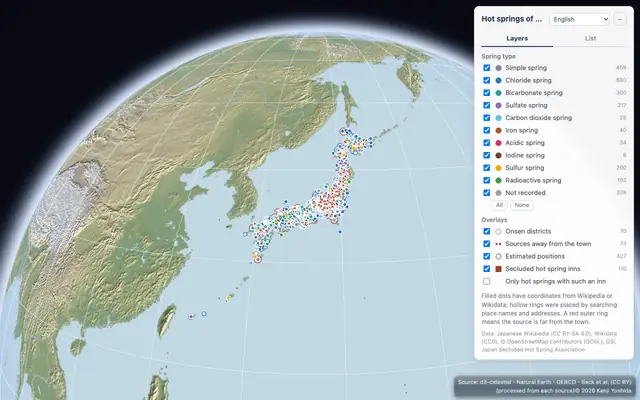
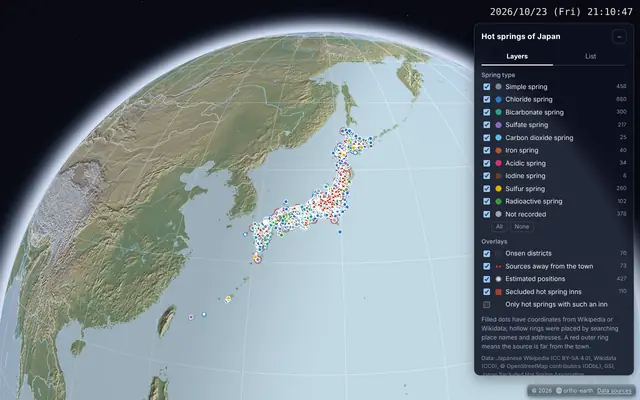
案内パネルを黒地に一本化：physical・terrain・onsen の白地（theme "light"）をやめ、カード写真を撮り直す
- common/panel：配色は黒地だけ（theme 引数と .oe-light を廃止）。--qm-* の夜値を枠で決め直し、
  入力・hover・選択・囲み・縁取りの小物（--oe-field/--oe-hover/--oe-on/--oe-inset/--oe-halo）も配る。
  枠の外の部品も class "oe-dark" で同じ黒地を受ける。
- physical・terrain：パネルの中身と断面図／グラフ（.ph-chart・.tr-chart）を変数で黒地に。
- onsen：パネルの中身を変数で黒地に。
- www のカード写真（physical・terrain・onsen）を新しい黒地パネルで撮り直し。

Claude-Session: https://claude.ai/code/session_016S2ZgwmMM8RZPS6jVxQ6tG

diff --git a/apps/ortho-globe/physical.ts b/apps/ortho-globe/physical.ts
@@ -422,7 +422,7 @@ export async function mountPhysical(map: GlobeMap, { geopbf, data }: { geopbf: G
 
 	// ── 案内板（右上）：詳細カード＋タブ（表示・一覧・比較）──
 	// 枠（見出し・折り畳み・PC は右上／スマホは下端のシート）＝共通の器 common/panel（紙の地図＝light）。言語の切替は地図のボタン（gadget.lang）
-	const P = createPanel({ host: mapEl, title: t("Physical world"), cls: "ph-panel", theme: "light",
+	const P = createPanel({ host: mapEl, title: t("Physical world"), cls: "ph-panel",
 		labels: { fold: t("Collapse panel"), unfold: t("Expand panel") } });
 	const panel = P.el;
 	P.body.insertAdjacentHTML("beforebegin", `<style>${CSS}</style>`);
@@ -615,7 +615,7 @@ export async function mountPhysical(map: GlobeMap, { geopbf, data }: { geopbf: G
 // ── 比較図：高さ比べ（山＝三角の影絵）と長さ・広さ比べ（横棒・2 量は並べた 2 枚）──
 function makeChart({ mapEl, items, byQ, nameOf, getSel, onPick }: { mapEl: HTMLElement; items: Terrain[]; byQ: Map<string, Terrain>; nameOf: (d: Terrain) => string; getSel: () => string | null; onPick: (q: string) => void }) {
 	const el = document.createElement("div");
-	el.className = "ph-chart"; el.hidden = true;
+	el.className = "ph-chart oe-dark"; el.hidden = true;   // oe-dark＝案内パネルと同じ黒地の変数・地色（common/panel）
 	el.innerHTML = `<div class="ch"><b class="tt"></b><button class="x" type="button" aria-label="${esc(t("Close"))}">×</button></div><div class="cv"></div><div class="ctip" hidden></div>`;
 	mapEl.appendChild(el);
 	for (const ev of ["pointerdown", "wheel", "dblclick", "contextmenu"]) el.addEventListener(ev, e => e.stopPropagation());
@@ -692,8 +692,8 @@ const CSS = `
 .ph-panel .leg[hidden]{display:none}   /* display:flex が hidden 属性に勝って、消した重ねの凡例が出ていた */
 .ph-panel .kleg{gap:4px;align-items:flex-start}
 .ph-panel .kgroups{display:flex;flex-direction:column;gap:3px;align-self:stretch}
-.ph-panel .kmore{align-self:flex-start;margin:2px 0 4px;font:inherit;font-size:11.5px;padding:3px 10px;border-radius:999px;border:1px solid var(--qm-border-soft);background:#fff;color:var(--qm-text);cursor:pointer}
-.ph-panel .kmore.on{background:var(--qm-ink);color:#fff;border-color:var(--qm-ink)}
+.ph-panel .kmore{align-self:flex-start;margin:2px 0 4px;font:inherit;font-size:11.5px;padding:3px 10px;border-radius:999px;border:1px solid var(--qm-border-soft);background:var(--oe-field);color:var(--qm-text);cursor:pointer}
+.ph-panel .kmore.on{background:var(--qm-ink);color:#0b1021;border-color:var(--qm-ink)}
 .ph-panel .kg{display:flex;flex-direction:column;align-items:flex-start;gap:2px}
 .ph-panel .kcs{display:flex;flex-wrap:wrap;gap:2px 8px;margin-left:20px}
 .ph-panel .kc{display:inline-flex;align-items:center;font-size:11px;font-variant-numeric:tabular-nums}
@@ -709,18 +709,18 @@ const CSS = `
 .ph-panel .note{color:var(--qm-text-dim);font-size:12px;margin:8px 0 0}
 .ph-panel .src{color:var(--qm-text-faint);font-size:11px;margin:6px 0 0}
 .ph-panel .ctl{display:flex;gap:6px}
-.ph-panel select,.ph-panel .find{flex:1;min-width:0;font:inherit;font-size:12.5px;border-radius:var(--qm-r-m);border:1px solid var(--qm-border-soft);background:#fff;color:var(--qm-text);padding:5px 6px}
+.ph-panel select,.ph-panel .find{flex:1;min-width:0;font:inherit;font-size:12.5px;border-radius:var(--qm-r-m);border:1px solid var(--qm-border-soft);background:var(--oe-field);color:var(--qm-text);padding:5px 6px}
 .ph-panel .find{display:block;width:100%;box-sizing:border-box;margin-top:6px}
 .ph-panel .list{list-style:none;margin:6px 0 0;padding:0;max-height:46vh;overflow:auto}
 .ph-panel .list li{position:relative;display:flex;gap:6px;align-items:baseline;padding:4px 4px 6px;border-radius:6px;cursor:pointer}
-.ph-panel .list li:hover{background:rgba(43,59,87,.06)}
-.ph-panel .list li.on{background:rgba(215,38,61,.08)}
+.ph-panel .list li:hover{background:var(--oe-hover)}
+.ph-panel .list li.on{background:var(--oe-on)}
 .ph-panel .list .i{flex:none;width:22px;text-align:right;color:var(--qm-text-faint);font-variant-numeric:tabular-nums}
 .ph-panel .list .n{flex:1;min-width:0;overflow:hidden;text-overflow:ellipsis;white-space:nowrap}
 .ph-panel .list .n small{margin-left:6px;color:var(--qm-text-faint)}
 .ph-panel .list .v{flex:none;color:var(--qm-num);font-variant-numeric:tabular-nums;font-size:12px}
 .ph-panel .list .bar{position:absolute;left:32px;bottom:2px;height:2px;border-radius:2px;background:var(--qm-border-strong);opacity:.5;max-width:calc(100% - 36px)}
-.ph-panel .detail{margin:10px 0 2px;padding:10px;border-radius:var(--qm-r-m);background:rgba(43,59,87,.04);border:1px solid var(--qm-border-soft)}
+.ph-panel .detail{margin:10px 0 2px;padding:10px;border-radius:var(--qm-r-m);background:var(--oe-inset);border:1px solid var(--qm-border-soft)}
 .ph-panel .dh{display:flex;gap:8px;align-items:flex-start;margin-bottom:6px}
 .ph-panel .dh .sw{margin-top:4px}
 .ph-panel .dh > div{flex:1;min-width:0}
@@ -734,7 +734,7 @@ const CSS = `
 .ph-panel .dl a{color:var(--qm-ink)}
 .oe-wiki.ph-wiki{left:12px;top:12px;bottom:calc(40px + var(--qm-safe-b));z-index:31;width:min(560px,calc(100% - 356px));--oe-wiki-radius:var(--qm-r-l);--oe-wiki-border:var(--qm-border-soft);--oe-wiki-shadow:var(--qm-shadow-pop);--oe-wiki-font:var(--qm-font)}
 .ph-chart{position:absolute;left:12px;right:344px;bottom:calc(40px + var(--qm-safe-b));z-index:29;height:300px;box-sizing:border-box;padding:8px 12px 10px;display:flex;flex-direction:column;
-	border-radius:var(--qm-r-l);background:var(--qm-panel-solid);border:1px solid var(--qm-border-soft);box-shadow:var(--qm-shadow-pop);color:var(--qm-text);font:12px/1.4 var(--qm-font)}
+	border-radius:var(--qm-r-l);background:var(--oe-panel-bg);backdrop-filter:blur(8px);-webkit-backdrop-filter:blur(8px);border:1px solid var(--qm-border-soft);box-shadow:var(--qm-shadow-pop);color:var(--qm-text);font:12px/1.4 var(--qm-font)}
 .ph-chart[hidden]{display:none}
 .ph-chart .ch{display:flex;justify-content:space-between;align-items:center;margin-bottom:4px}
 .ph-chart .ch b{color:var(--qm-ink);font-size:13px}
@@ -742,24 +742,24 @@ const CSS = `
 .ph-chart .cv{flex:1;min-height:0;overflow:hidden}
 .ph-chart .cv.scroll{overflow:auto}
 .ph-chart svg{display:block;font:11px var(--qm-font)}
-.ph-chart .gl{stroke:rgba(90,100,120,.16);stroke-width:1}
+.ph-chart .gl{stroke:var(--oe-hover);stroke-width:1}
 .ph-chart .base{stroke:var(--qm-text-dim);stroke-width:1}
-.ph-chart .ax{fill:var(--qm-text-dim);font-size:10px;paint-order:stroke;stroke:#fff;stroke-width:3px}
-.ph-chart .mtn{fill:#8f4a14;fill-opacity:.78;stroke:#fff;stroke-width:1}
-.ph-chart .vol{fill:#c2410c;fill-opacity:.78;stroke:#fff;stroke-width:1}
+.ph-chart .ax{fill:var(--qm-text-dim);font-size:10px;paint-order:stroke;stroke:var(--oe-halo);stroke-width:3px}
+.ph-chart .mtn{fill:#b8641f;fill-opacity:.85;stroke:var(--oe-halo);stroke-width:1}
+.ph-chart .vol{fill:#e2531b;fill-opacity:.85;stroke:var(--oe-halo);stroke-width:1}
 .ph-chart .val{fill:var(--qm-num);font-size:9.5px;text-anchor:middle;font-variant-numeric:tabular-nums}
 .ph-chart .lb{fill:var(--qm-text);font-size:10px;text-anchor:middle}
 .ph-chart .mh{fill:var(--qm-text-dim);font-weight:600}
 .ph-chart .nm{fill:var(--qm-text);text-anchor:end}
 .ph-chart .na{fill:var(--qm-text-faint)}
-.ph-chart .bar{fill:#2f78c4;fill-opacity:.85}
-.ph-chart .bar.b1{fill:#5a6472;fill-opacity:.7}
+.ph-chart .bar{fill:#4a90dc;fill-opacity:.85}
+.ph-chart .bar.b1{fill:#8793aa;fill-opacity:.7}
 .ph-chart .val2{fill:var(--qm-num);font-size:10.5px;font-variant-numeric:tabular-nums}
 .ph-chart .hit{fill:transparent;cursor:pointer}
 .ph-chart .mk:hover .mtn,.ph-chart .mk:hover .vol,.ph-chart .mk:hover .bar{fill-opacity:1}
-.ph-chart .mk.on .mtn,.ph-chart .mk.on .vol,.ph-chart .mk.on .bar{stroke:#d7263d;stroke-width:2;fill-opacity:1}
-.ph-chart .mk.on .nm,.ph-chart .mk.on .lb{fill:#d7263d;font-weight:700}
-.ph-chart .ctip{position:absolute;pointer-events:none;min-width:120px;padding:6px 8px;border-radius:6px;background:rgba(255,255,255,.97);border:1px solid var(--qm-border-soft);box-shadow:var(--qm-shadow-card);font-size:12px}
+.ph-chart .mk.on .mtn,.ph-chart .mk.on .vol,.ph-chart .mk.on .bar{stroke:#ff6b7d;stroke-width:2;fill-opacity:1}
+.ph-chart .mk.on .nm,.ph-chart .mk.on .lb{fill:#ff6b7d;font-weight:700}
+.ph-chart .ctip{position:absolute;pointer-events:none;min-width:120px;padding:6px 8px;border-radius:6px;background:var(--qm-panel-solid);border:1px solid var(--qm-border-soft);box-shadow:var(--qm-shadow-card);font-size:12px}
 .ph-chart .ctip[hidden]{display:none}
 @media (max-width:640px){
 	.oe-wiki.ph-wiki{left:8px;right:8px;top:8px;width:auto}

diff --git a/apps/ortho-japan/terrain.ts b/apps/ortho-japan/terrain.ts
@@ -331,7 +331,7 @@ export async function mountTerrain(map: GlobeMap, { geopbf, base = "./" }: { geo
 
 	// ── 案内板（右上）：詳細カード＋タブ（表示・一覧・比較）──
 	// 枠（見出し・折り畳み・PC は右上／スマホは下端のシート）＝共通の器 common/panel（紙の地図＝light）。言語の切替は地図のボタン（gadget.lang）
-	const P = createPanel({ host: mapEl, title: t("Landforms of Japan"), cls: "tr-panel", theme: "light",
+	const P = createPanel({ host: mapEl, title: t("Landforms of Japan"), cls: "tr-panel",
 		labels: { fold: t("Collapse panel"), unfold: t("Expand panel") } });
 	const panel = P.el;
 	P.body.insertAdjacentHTML("beforebegin", `<style>${CSS}</style>`);
@@ -474,7 +474,7 @@ export async function mountTerrain(map: GlobeMap, { geopbf, base = "./" }: { geo
 // ── 比較図：高さ比べ（山＝三角の影絵）と長さ・広さ比べ（横棒・2 量は並べた 2 枚）＝physical.js と同じ ──
 function makeChart({ mapEl, items, byQ, nameOf, getSel, onPick }: { mapEl: HTMLElement; items: TerrainItem[]; byQ: Map<string, TerrainItem>; nameOf: (d: TerrainItem) => string; getSel: () => string | null; onPick: (q: string) => void }) {
 	const el = document.createElement("div");
-	el.className = "tr-chart"; el.hidden = true;
+	el.className = "tr-chart oe-dark"; el.hidden = true;   // oe-dark＝案内パネルと同じ黒地の変数・地色（common/panel）
 	el.innerHTML = `<div class="ch"><b class="tt"></b><button class="x" type="button" aria-label="${esc(t("Close"))}">×</button></div><div class="cv"></div><div class="ctip" hidden></div>`;
 	mapEl.appendChild(el);
 	for (const ev of ["pointerdown", "wheel", "dblclick", "contextmenu"]) el.addEventListener(ev, e => e.stopPropagation());
@@ -552,18 +552,18 @@ const CSS = `
 .tr-panel .note{color:var(--qm-text-dim);font-size:12px;margin:8px 0 0}
 .tr-panel .src{color:var(--qm-text-faint);font-size:11px;margin:6px 0 0}
 .tr-panel .ctl{display:flex;gap:6px}
-.tr-panel select,.tr-panel .find{flex:1;min-width:0;font:inherit;font-size:12.5px;border-radius:var(--qm-r-m);border:1px solid var(--qm-border-soft);background:#fff;color:var(--qm-text);padding:5px 6px}
+.tr-panel select,.tr-panel .find{flex:1;min-width:0;font:inherit;font-size:12.5px;border-radius:var(--qm-r-m);border:1px solid var(--qm-border-soft);background:var(--oe-field);color:var(--qm-text);padding:5px 6px}
 .tr-panel .find{display:block;width:100%;box-sizing:border-box;margin-top:6px}
 .tr-panel .list{list-style:none;margin:6px 0 0;padding:0;max-height:46vh;overflow:auto}
 .tr-panel .list li{position:relative;display:flex;gap:6px;align-items:baseline;padding:4px 4px 6px;border-radius:6px;cursor:pointer}
-.tr-panel .list li:hover{background:rgba(43,59,87,.06)}
-.tr-panel .list li.on{background:rgba(215,38,61,.08)}
+.tr-panel .list li:hover{background:var(--oe-hover)}
+.tr-panel .list li.on{background:var(--oe-on)}
 .tr-panel .list .i{flex:none;width:22px;text-align:right;color:var(--qm-text-faint);font-variant-numeric:tabular-nums}
 .tr-panel .list .n{flex:1;min-width:0;overflow:hidden;text-overflow:ellipsis;white-space:nowrap}
 .tr-panel .list .n small{margin-left:6px;color:var(--qm-text-faint)}
 .tr-panel .list .v{flex:none;color:var(--qm-num);font-variant-numeric:tabular-nums;font-size:12px}
 .tr-panel .list .bar{position:absolute;left:32px;bottom:2px;height:2px;border-radius:2px;background:var(--qm-border-strong);opacity:.5;max-width:calc(100% - 36px)}
-.tr-panel .detail{margin:10px 0 2px;padding:10px;border-radius:var(--qm-r-m);background:rgba(43,59,87,.04);border:1px solid var(--qm-border-soft)}
+.tr-panel .detail{margin:10px 0 2px;padding:10px;border-radius:var(--qm-r-m);background:var(--oe-inset);border:1px solid var(--qm-border-soft)}
 .tr-panel .dh{display:flex;gap:8px;align-items:flex-start;margin-bottom:6px}
 .tr-panel .dh .sw{margin-top:4px}
 .tr-panel .dh > div{flex:1;min-width:0}
@@ -583,7 +583,7 @@ const CSS = `
 .tr-wiki .nt,.tr-wiki .x{flex:none;width:26px;height:26px;display:grid;place-items:center;border-radius:7px;border:1px solid var(--qm-border-soft);background:transparent;color:var(--qm-text-dim);font-size:14px;line-height:1;cursor:pointer;text-decoration:none}
 .tr-wiki iframe{flex:1;min-height:0;width:100%;border:0;background:#fff}
 .tr-chart{position:absolute;left:12px;right:344px;bottom:calc(40px + var(--qm-safe-b));z-index:29;height:300px;box-sizing:border-box;padding:8px 12px 10px;display:flex;flex-direction:column;
-	border-radius:var(--qm-r-l);background:var(--qm-panel-solid);border:1px solid var(--qm-border-soft);box-shadow:var(--qm-shadow-pop);color:var(--qm-text);font:12px/1.4 var(--qm-font)}
+	border-radius:var(--qm-r-l);background:var(--oe-panel-bg);backdrop-filter:blur(8px);-webkit-backdrop-filter:blur(8px);border:1px solid var(--qm-border-soft);box-shadow:var(--qm-shadow-pop);color:var(--qm-text);font:12px/1.4 var(--qm-font)}
 .tr-chart[hidden]{display:none}
 .tr-chart .ch{display:flex;justify-content:space-between;align-items:center;margin-bottom:4px}
 .tr-chart .ch b{color:var(--qm-ink);font-size:13px}
@@ -591,24 +591,24 @@ const CSS = `
 .tr-chart .cv{flex:1;min-height:0;overflow:hidden}
 .tr-chart .cv.scroll{overflow:auto}
 .tr-chart svg{display:block;font:11px var(--qm-font)}
-.tr-chart .gl{stroke:rgba(90,100,120,.16);stroke-width:1}
+.tr-chart .gl{stroke:var(--oe-hover);stroke-width:1}
 .tr-chart .base{stroke:var(--qm-text-dim);stroke-width:1}
-.tr-chart .ax{fill:var(--qm-text-dim);font-size:10px;paint-order:stroke;stroke:#fff;stroke-width:3px}
-.tr-chart .mtn{fill:#8f4a14;fill-opacity:.78;stroke:#fff;stroke-width:1}
-.tr-chart .vol{fill:#c2410c;fill-opacity:.78;stroke:#fff;stroke-width:1}
+.tr-chart .ax{fill:var(--qm-text-dim);font-size:10px;paint-order:stroke;stroke:var(--oe-halo);stroke-width:3px}
+.tr-chart .mtn{fill:#b8641f;fill-opacity:.85;stroke:var(--oe-halo);stroke-width:1}
+.tr-chart .vol{fill:#e2531b;fill-opacity:.85;stroke:var(--oe-halo);stroke-width:1}
 .tr-chart .val{fill:var(--qm-num);font-size:9.5px;text-anchor:middle;font-variant-numeric:tabular-nums}
 .tr-chart .lb{fill:var(--qm-text);font-size:10px;text-anchor:middle}
 .tr-chart .mh{fill:var(--qm-text-dim);font-weight:600}
 .tr-chart .nm{fill:var(--qm-text);text-anchor:end}
 .tr-chart .na{fill:var(--qm-text-faint)}
-.tr-chart .bar{fill:#2f78c4;fill-opacity:.85}
-.tr-chart .bar.b1{fill:#5a6472;fill-opacity:.7}
+.tr-chart .bar{fill:#4a90dc;fill-opacity:.85}
+.tr-chart .bar.b1{fill:#8793aa;fill-opacity:.7}
 .tr-chart .val2{fill:var(--qm-num);font-size:10.5px;font-variant-numeric:tabular-nums}
 .tr-chart .hit{fill:transparent;cursor:pointer}
 .tr-chart .mk:hover .mtn,.tr-chart .mk:hover .vol,.tr-chart .mk:hover .bar{fill-opacity:1}
-.tr-chart .mk.on .mtn,.tr-chart .mk.on .vol,.tr-chart .mk.on .bar{stroke:#d7263d;stroke-width:2;fill-opacity:1}
-.tr-chart .mk.on .nm,.tr-chart .mk.on .lb{fill:#d7263d;font-weight:700}
-.tr-chart .ctip{position:absolute;pointer-events:none;min-width:120px;padding:6px 8px;border-radius:6px;background:rgba(255,255,255,.97);border:1px solid var(--qm-border-soft);box-shadow:var(--qm-shadow-card);font-size:12px}
+.tr-chart .mk.on .mtn,.tr-chart .mk.on .vol,.tr-chart .mk.on .bar{stroke:#ff6b7d;stroke-width:2;fill-opacity:1}
+.tr-chart .mk.on .nm,.tr-chart .mk.on .lb{fill:#ff6b7d;font-weight:700}
+.tr-chart .ctip{position:absolute;pointer-events:none;min-width:120px;padding:6px 8px;border-radius:6px;background:var(--qm-panel-solid);border:1px solid var(--qm-border-soft);box-shadow:var(--qm-shadow-card);font-size:12px}
 .tr-chart .ctip[hidden]{display:none}
 @media (max-width:640px){
 	.tr-wiki{left:8px;right:8px;top:8px;width:auto}

diff --git a/packages/common/src/panel.ts b/packages/common/src/panel.ts
@@ -9,8 +9,10 @@
 //   下端はどちらも出典（#attr）の上で止める（PC＝丈の頭打ち・スマホ＝シートの下端）。
 //   スマホ（≤640px）＝下端いっぱいのシート。出典（#attr）の高さを測って、その上に浮かす（出典が 2 行でも 4 行でも重ならない）。
 //                     最初は畳む（見出しだけ＝地図を先に見せる）。開いている間は操作方法カード（#hint）を隠す（重なるため）。
-//   配色＝theme "dark"（夜の地球儀の頁）／"light"（紙の地図の頁）。どちらも --qm-* の変数を枠の中で決める＝中身の CSS は
-//         var(--qm-text) 等で書けば両方の配色で読める。
+//   配色＝黒地・白文字の一つだけ（紙の地図の頁も同じ。旧 theme "light"＝physical・terrain・onsen の白地は 2026-10-23 本人「黒地のパネルに」で廃止）。
+//         --qm-* の変数を枠の中で夜値に決め直す＝中身の CSS は var(--qm-text) 等で書けば黒地で読める（紙の頁の #map が配る昼値に勝つ）。
+//         枠の外に浮かぶ頁の部品（断面図・グラフ等）も class "oe-dark" を付ければ同じ変数と地色（--oe-panel-bg）を受ける。
+//         地色の上の小物：--oe-field（入力・選択の地）・--oe-hover（行の hover）・--oe-on（選んだ行＝赤み）・--oe-inset（詳細の囲み）・--oe-halo（図の文字の縁取り）。
 // 文言は呼び手が渡す（common は i18n を持たない＝各頁の t() で訳した物）。
 // 二つ以上のアプリが使う＝共有エンジンの入口 common/panel（apps/engine/src/entries.mjs）＝各アプリの束に焼かない。
 
@@ -27,8 +29,6 @@ export interface PanelOpts {
 	sub?: string;
 	/** 頁の class（中身の CSS の錨。例 "sats-panel"） */
 	cls?: string;
-	/** 配色。既定 "dark" */
-	theme?: "dark" | "light";
 	/** PC での幅（px）。既定 320 */
 	width?: number;
 	/** スマホで最初に畳むか。既定 true */
@@ -57,9 +57,11 @@ const CSS = `
  max-height:calc(100% - 28px - var(--oe-attr-h,40px));overflow:auto;box-sizing:border-box;padding:12px 14px;border-radius:12px;
  backdrop-filter:blur(8px);-webkit-backdrop-filter:blur(8px);font:13px/1.5 var(--qm-font,system-ui,sans-serif);scrollbar-width:thin;
  background:var(--oe-panel-bg);color:var(--qm-text);border:1px solid var(--qm-border-soft);box-shadow:var(--oe-panel-shadow)}
-.oe-panel.oe-dark{--qm-ink:#fff;--qm-text:#e7ecf5;--qm-text-dim:#9aa6bd;--qm-text-faint:#8793aa;--qm-border-soft:rgba(255,255,255,.16);
- --oe-panel-bg:rgba(12,17,32,.88);--oe-panel-shadow:0 8px 28px rgba(0,0,0,.35);color-scheme:dark}
-.oe-panel.oe-light{--oe-panel-bg:var(--qm-panel-solid,rgba(255,255,255,.96));--oe-panel-shadow:var(--qm-shadow-pop,0 4px 14px rgba(20,30,50,.12));color-scheme:light}
+.oe-panel,.oe-dark{--qm-ink:#fff;--qm-text:#e7ecf5;--qm-num:#cfd8e8;--qm-label:#9aa6bd;--qm-text-dim:#9aa6bd;--qm-text-faint:#8793aa;
+ --qm-border:rgba(255,255,255,.22);--qm-border-soft:rgba(255,255,255,.16);--qm-border-strong:rgba(255,255,255,.42);--qm-panel-solid:rgba(12,17,32,.96);
+ --qm-shadow-card:0 3px 10px rgba(0,0,0,.3);--qm-shadow-pop:0 8px 28px rgba(0,0,0,.35);
+ --oe-panel-bg:rgba(12,17,32,.88);--oe-panel-shadow:0 8px 28px rgba(0,0,0,.35);
+ --oe-field:rgba(255,255,255,.07);--oe-hover:rgba(255,255,255,.08);--oe-on:rgba(255,92,112,.2);--oe-inset:rgba(255,255,255,.05);--oe-halo:#0c1120;color-scheme:dark}
 @media (min-width:${PANEL_MOBILE + 1}px){.oe-panel-host:has(#sky-clock)>.oe-panel{top:calc(46px + env(safe-area-inset-top,0px));max-height:calc(100% - 62px - var(--oe-attr-h,40px))}}   /* 夜空の時計（右上・#sky-clock）の下へ＝重ねない（PC だけ・スマホは下端） */
 .oe-panel .oe-panel-head{display:flex;align-items:center;justify-content:space-between;gap:8px}
 .oe-panel .oe-panel-head h1{flex:1;min-width:0;font-size:15px;line-height:1.35;margin:0;font-weight:700;letter-spacing:.02em;color:var(--qm-ink)}
@@ -102,11 +104,11 @@ function watchAttr(host: HTMLElement, signal: AbortSignal): void {
 }
 
 /** 案内パネルを作って host に付ける。中身は戻りの body に入れる */
-export function createPanel({ host, title, sub = "", cls = "", theme = "dark", width = 320, foldMobile = true, labels = {}, onFold }: PanelOpts): Panel {
+export function createPanel({ host, title, sub = "", cls = "", width = 320, foldMobile = true, labels = {}, onFold }: PanelOpts): Panel {
 	injectCss();
 	const ac = new AbortController();
 	const el = document.createElement("section");
-	el.className = `oe-panel oe-${theme}${cls ? " " + cls : ""}`;
+	el.className = `oe-panel${cls ? " " + cls : ""}`;
 	if (width !== 320) el.style.setProperty("--oe-panel-w", `${width}px`);
 	el.innerHTML = `<div class="oe-panel-head"><h1></h1><button type="button" class="oe-panel-fold"></button></div><div class="oe-panel-sub"></div><div class="oe-panel-body"></div>`;
 	const head = el.querySelector<HTMLElement>(".oe-panel-head")!;

diff --git a/apps/ortho-japan/onsen.ts b/apps/ortho-japan/onsen.ts
@@ -170,7 +170,7 @@ export async function mountOnsen(map: GlobeMap, { base = "./" } = {}) {
 	// ── 案内板（右上）：詳細カード＋タブ（表示・一覧）──
 	const count = (i: number) => onsens.filter(d => i < 0 ? !d.qc?.length : d.qc?.includes(i)).length;
 	// 枠（見出し・折り畳み・PC は右上／スマホは下端のシート）＝共通の器 common/panel（紙の地図＝light）。言語の切替は地図のボタン（gadget.lang）
-	const P = createPanel({ host: mapEl, title: t("Hot springs of Japan"), cls: "on-panel", theme: "light",
+	const P = createPanel({ host: mapEl, title: t("Hot springs of Japan"), cls: "on-panel",
 		labels: { fold: t("Collapse panel"), unfold: t("Expand panel") } });
 	const panel = P.el;
 	P.body.insertAdjacentHTML("beforebegin", `<style>${CSS}</style>`);
@@ -298,19 +298,19 @@ const CSS = `
 .on-panel .note{color:var(--qm-text-dim);font-size:12px;margin:8px 0 0}
 .on-panel .src{color:var(--qm-text-faint);font-size:11px;margin:6px 0 0}
 .on-panel .ctl{display:flex;gap:6px}
-.on-panel select,.on-panel .find{flex:1;min-width:0;font:inherit;font-size:12.5px;border-radius:var(--qm-r-m);border:1px solid var(--qm-border-soft);background:#fff;color:var(--qm-text);padding:5px 6px}
+.on-panel select,.on-panel .find{flex:1;min-width:0;font:inherit;font-size:12.5px;border-radius:var(--qm-r-m);border:1px solid var(--qm-border-soft);background:var(--oe-field);color:var(--qm-text);padding:5px 6px}
 .on-panel .find{display:block;width:100%;box-sizing:border-box;margin-top:6px}
 .on-panel .cnt{margin:6px 0 0;font-size:11.5px;color:var(--qm-text-faint)}
 .on-panel .list{list-style:none;margin:4px 0 0;padding:0;max-height:46vh;overflow:auto}
 .on-panel .list li{display:flex;gap:7px;align-items:center;padding:4px;border-radius:6px;cursor:pointer}
-.on-panel .list li:hover{background:rgba(43,59,87,.06)}
-.on-panel .list li.on{background:rgba(215,38,61,.08)}
+.on-panel .list li:hover{background:var(--oe-hover)}
+.on-panel .list li.on{background:var(--oe-on)}
 .on-panel .list .dot{flex:none;width:9px;height:9px;border-radius:50%;background:var(--c)}
 .on-panel .list .dot.est{background:#fff;border:1.6px solid var(--c);box-sizing:border-box}
 .on-panel .list .n{flex:1;min-width:0;overflow:hidden;text-overflow:ellipsis;white-space:nowrap}
 .on-panel .list small{flex:none;color:var(--qm-text-faint);font-size:11.5px}
 .on-panel .list .ih{flex:none;width:8px;height:8px;border-radius:2px;background:#a8402a}
-.on-panel .detail{margin:10px 0 2px;padding:10px;border-radius:var(--qm-r-m);background:rgba(43,59,87,.04);border:1px solid var(--qm-border-soft)}
+.on-panel .detail{margin:10px 0 2px;padding:10px;border-radius:var(--qm-r-m);background:var(--oe-inset);border:1px solid var(--qm-border-soft)}
 .on-panel .dh{display:flex;gap:8px;align-items:flex-start;margin-bottom:6px}
 .on-panel .dh .sw{margin-top:4px}
 .on-panel .dh > div{flex:1;min-width:0}
@@ -327,8 +327,8 @@ const CSS = `
 .on-panel .mem div{font-size:12.5px;line-height:1.6}
 .on-panel .inns ul{margin:2px 0 0;padding-left:16px}
 .on-panel .inns small{display:block;color:var(--qm-text-faint);font-size:11px}
-.on-panel .srcbox{margin-top:6px;padding:6px 8px;border-left:3px solid ${SRC};background:rgba(192,57,43,.05);border-radius:0 6px 6px 0;font-size:12.5px}
-.on-panel .srcbox b{color:${SRC};font-weight:600}
+.on-panel .srcbox{margin-top:6px;padding:6px 8px;border-left:3px solid ${SRC};background:rgba(231,76,60,.12);border-radius:0 6px 6px 0;font-size:12.5px}
+.on-panel .srcbox b{color:#ff8a7a;font-weight:600}
 .on-panel .srcbox small{color:var(--qm-text-dim)}
 .on-panel .srcbox q{display:block;margin-top:3px;color:var(--qm-text-dim);font-size:12px}
 .on-panel .srcbox .srcgo{display:inline-block;margin-top:3px}
